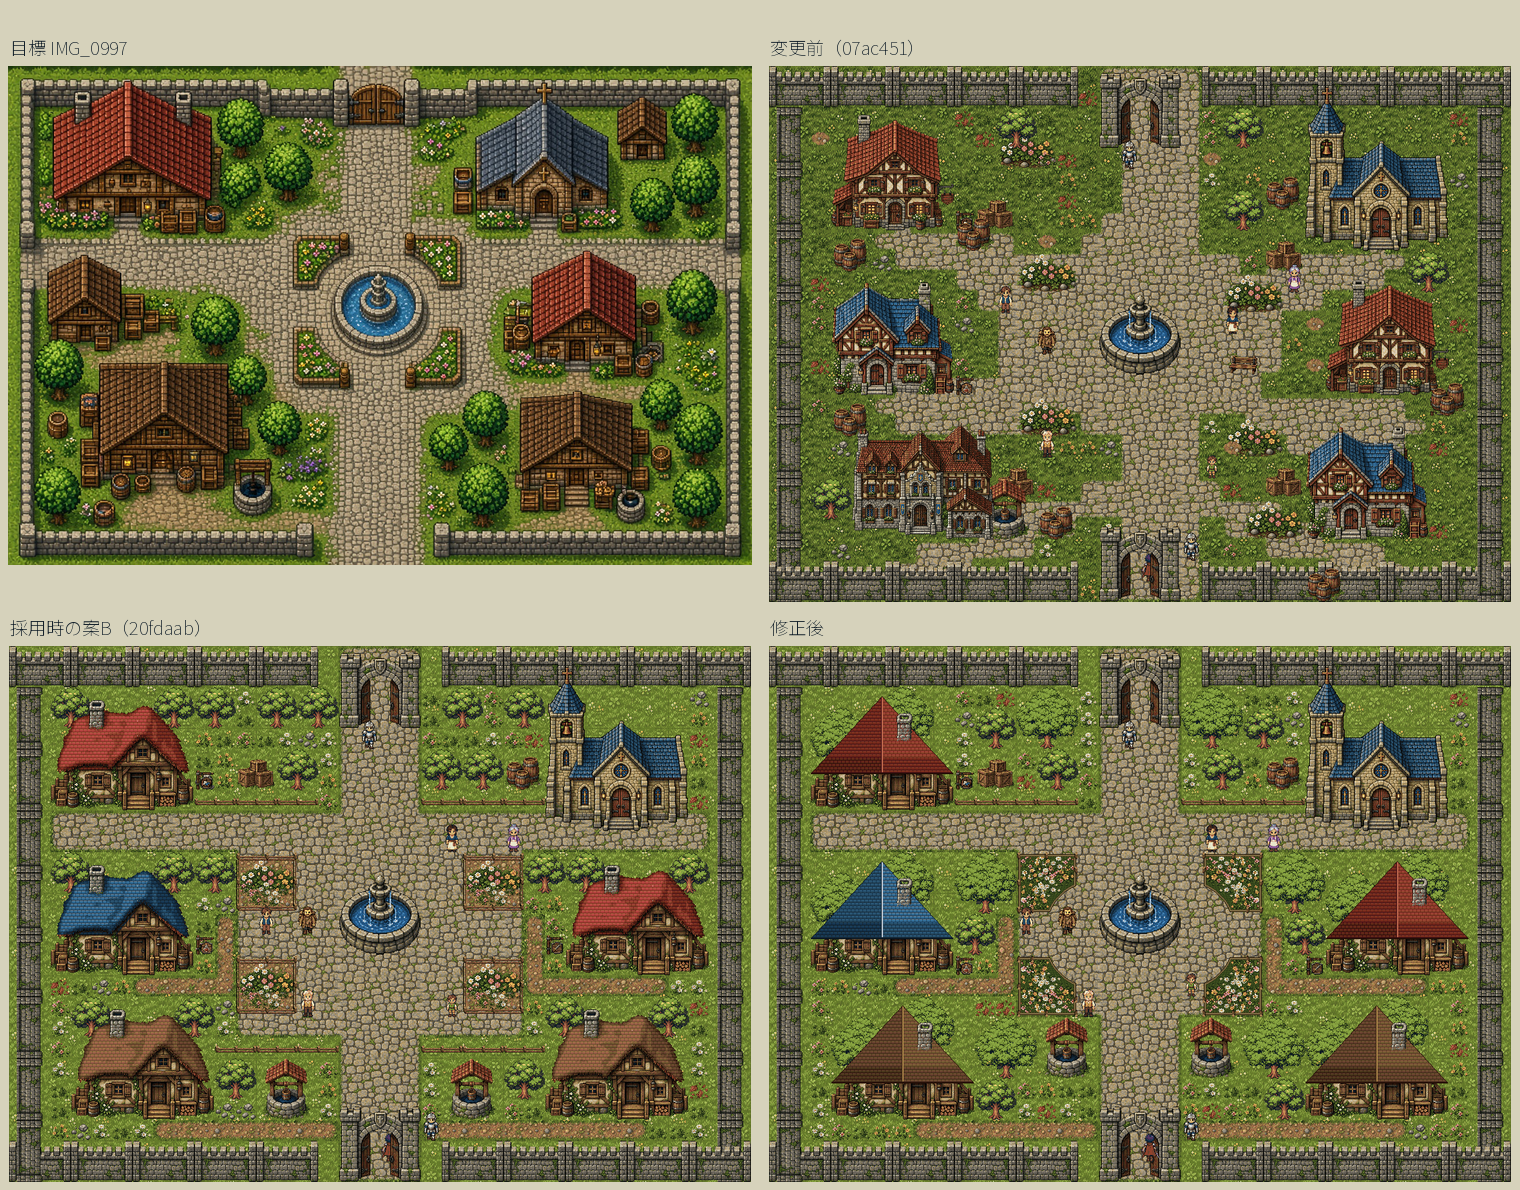
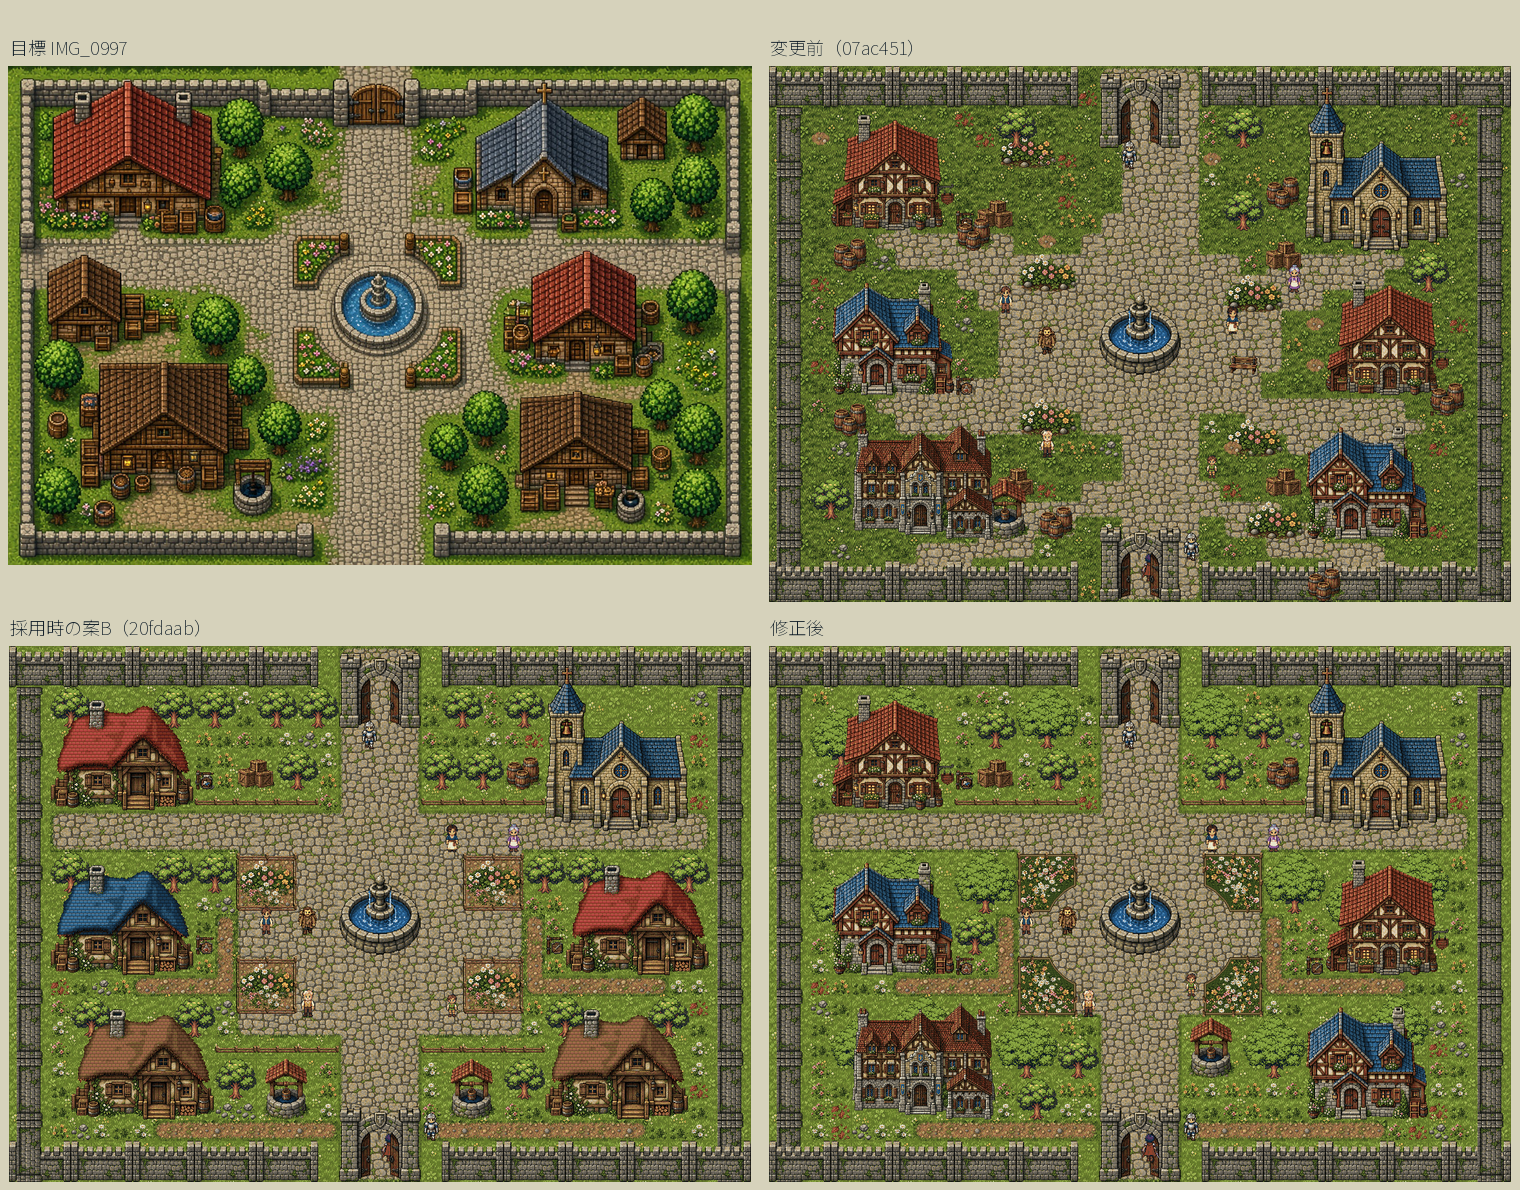
城下町の比較画像・検査・記録を町家に戻した版へ更新する
木の固まりを連結成分で求めて2〜3本であることを検査し、家は初版と同じ町家・館であることを確かめる。
目標・変更前・採用時・修正後の比較画像と、通常操作の実画面を撮り直す。

Claude-Session: https://claude.ai/code/session_014N6nJw8CEZAjPXfFKyyS9r

diff --git a/tools/check_castle_town_polish.py b/tools/check_castle_town_polish.py
@@ -1,5 +1,7 @@
 #!/usr/bin/env python3
-"""城下町の見た目の仕上げ（2026年9月28日の依頼6項目と、案B採用後の修正4点）を、本番配置データから機械検査する。
+"""城下町の見た目の仕上げ（2026年9月28日の依頼6項目と、案B採用後の修正）を、本番配置データから機械検査する。
+
+(4)の「木造の家を中心に」は、依頼者の決定により家を登録済みの町家・館の素材へ戻したため検査しない。
 
 比較の相手は、この作業の直前のコミット 07ac451（城下町・城の採用後の最終コミット）に固定する。
 修正4点の「道幅を細く」は、依頼者が見た案Bのコミット 20fdaab と比べる。
@@ -61,12 +63,21 @@ def main():
     check(near == len(trees), f'(1) 木はすべて家の周りか町の縁: {near}/{len(trees)}')
     large = named('tree_round_large')
     check(len(large) >= 6, f'修正2 大きな丸い木（3×3セル）が6本以上: {len(large)}本')
-    lonely = []
-    for tree in trees:
-        others = [o for o in trees if o is not tree]
-        if not any(abs(x - ox) <= 1 and abs(y - oy) <= 1 for x, y in cells(tree) for o in others for ox, oy in cells(o)):
-            lonely.append(min(cells(tree)))
-    check(not lonely, f'修正2 どの木も隣り合う木を持つ（2〜3本の固まり）: 孤立 {lonely}')
+    # 隣り合う（セル間の距離1以内の）木をつないだ固まりを求め、どの固まりも2本か3本であることを確かめる
+    def touching(a, b):
+        return any(abs(x - ox) <= 1 and abs(y - oy) <= 1 for x, y in cells(a) for ox, oy in cells(b))
+    groups, left = [], list(range(len(trees)))
+    while left:
+        group, queue = [], [left.pop(0)]
+        while queue:
+            i = queue.pop()
+            group.append(i)
+            for j in [j for j in left if touching(trees[i], trees[j])]:
+                left.remove(j)
+                queue.append(j)
+        groups.append(sorted(min(cells(trees[i])) for i in group))
+    wrong = [g for g in groups if len(g) not in (2, 3)]
+    check(not wrong, f'修正2 木は2〜3本ずつの固まり: 固まり{len(groups)}個、2〜3本でないもの {wrong}')
     rows = {}
     for tree in trees:
         rows.setdefault(min(y for _, y in cells(tree)), []).append(tree)
@@ -107,9 +118,14 @@ def main():
     kinds = [l['name'].removeprefix('natural_') for l in houses]
     check(all(k in roof_of for k in kinds) and len(kinds) == 6, f'(4) 6棟の屋根が赤・茶・青のどれか: {kinds}')
     check(not any('farm_house' in l['name'] for l in layers), '(4) わら屋根の家を置かない')
-    wooden = sum(k.startswith('gable_house') for k in kinds)
-    check(wooden >= 3, f'(4) 教会以外の5棟のうち過半（3棟以上）が木造の大屋根の家: {wooden}棟')
-    check(wooden == 5, f'修正1 教会以外の5棟すべてが三角の切妻屋根の木造の家: {wooden}棟')
+    # 修正1（2026年9月28日の依頼者決定）：スクリプトで描いた家は使わず、登録済みの町家・館の素材に戻す。
+    # 家の種類と位置は初版（07ac451）と同じ
+    base_town = base_visual['maps'][f'{NODE}:0']
+    def placed(document):
+        return sorted((l['name'], min(c[0] for c in l['cells']), min(c[1] for c in l['cells'])) for l in document['layers']
+                      if 'house' in l['name'] or l['name'] in ('natural_church', 'natural_manor'))
+    check(placed(town) == placed(base_town), f'修正1 家は登録済みの町家・館の素材で、種類と位置は初版と同じ: {placed(town)}')
+    check(not any(l['name'].startswith(('natural_gable_house', 'natural_wood_house')) for l in layers), '修正1 スクリプトで描いた家の素材を使わない')
 
     # (5) 家ごとの庭：各家から5セル以内に樽・木箱・井戸・花のどれかがある。井戸が1つ以上
     props = [l for l in layers if l['name'].removeprefix('natural_') in ('barrels', 'crates', 'well', 'flowers_pink', 'flowers_white', 'flowers_yellow', 'flowerbed')]
@@ -147,6 +163,7 @@ def main():
     check(door_rooms(first['castle_doors']) == door_rooms(base_def['castle_doors']), '扉と部屋の対応（どの扉がどの部屋へ）は07ac451と同じ')
     check(outside_town(first['castle_doors']) == outside_town(base_def['castle_doors']), '城内・店の中の出入口セルは07ac451と同じ')
     check(town_side(first['castle_doors']) == town_side(base_def['castle_doors']), '北門から城の中庭への出入口セルは07ac451と同じ')
+    check(first['castle_doors'] == base_def['castle_doors'], '城下町の扉セルも含め、出入口はすべて07ac451と同じ')
     moved = sorted({tuple(l['from']['cell']) for l in first['castle_doors'] if l['from']['room'] == 0} - {tuple(l['from']['cell']) for l in base_def['castle_doors'] if l['from']['room'] == 0})
     print(f'INFO 家の絵に合わせて移した城下町側の扉セル: {moved}')
     for key in ('castle_entrance', 'castle_exit', 'castle_spawn'):

diff --git a/tools/build_castle_town_polish_review.py b/tools/build_castle_town_polish_review.py
@@ -16,7 +16,7 @@ BEFORE = OUT / 'before-full-town.png'
 FONT = ImageFont.truetype(str(ROOT / 'assets/fonts/notosansjp/NotoSansJP.ttf'), 22)
 SMALL = ImageFont.truetype(str(ROOT / 'assets/fonts/notosansjp/NotoSansJP.ttf'), 18)
 TITLES = {
-    'B': '案B（採用）を修正：切妻屋根・大きな木の固まり・細い道・花で埋めたL字花壇',
+    'B': '案B（採用）を修正：町家・大きな木の固まり・細い道・花で埋めたL字花壇',
 }
 ADOPTED = OUT / 'variant-B/adopted-full-town.png'  # 依頼者が採用した時点（20fdaab）の本番描画
 BG = '#d6d2bb'

diff --git a/docs/castle-town-polish.md b/docs/castle-town-polish.md
@@ -10,17 +10,18 @@
    - 木：小さな木が一列に並んで生け垣のよう → 大きな丸い木を2〜3本ずつ固め、家の周りと町の縁を囲む
    - 道幅：十字の道が太く町が石畳で埋まる → 目標の絵と同じくらいに細くし、空いた分を庭と木に使う
    - 花壇：土の四角に見える → 柵で囲み、中に花がびっしり咲く形
+3. 同日、依頼者が木・道幅・L字の花壇・南門・仕様書の書き分けを採用した（87b7e17）。スクリプトで描いた三角の屋根は、テントやピラミッドのように見えた。目標の屋根（斜め上から見下ろした台形の面と棟の線、正面の壁の上の小さな三角）をスクリプトで描くのは難しいと依頼者が判断したため、**家は案Aと同じ登録済みの町家・館の素材に戻した**。切妻屋根の家の素材は台帳とファイルから外した（87b7e17 に残る）。
 
 ## 修正後の内容
 
-- **屋根**：教会以外の5棟を、三角の切妻屋根の木造の家 `natural_gable_house_{red,blue,brown}` にした（赤2・青1・茶2）。棟が縦に通り、左右の面で明暗を分け、5画素ごとの段と継ぎ目で瓦・板葺きを描く。壁・扉・窓・樽・薪はわら屋根の家Aの絵をそのまま使う。
-- **木**：96×96（3×3セル）の大きな丸い木 `natural_tree_round_large` を16本、従来の丸い木を8本、計24本。すべての木が隣り合う木を持つ2〜3本の固まりで、同じ行に並ぶ木は4本まで。家の後ろの木は屋根の上の空いた角に重ね、屋根より奥に描く。
+- **家**：登録済みの町家（赤2・青2）・館・教会。種類と位置は初版（07ac451）と同じで、扉のセルと出入口のつながりも初版と完全に一致する。屋根は赤・青と、館の赤茶。
+- **木**：96×96（3×3セル）の大きな丸い木 `natural_tree_round_large` を16本、従来の丸い木を7本、計23本。隣り合う木をつないだ固まりは9個で、どれも2本か3本。同じ行に並ぶ木は4本まで。家の後ろの木は屋根の上の空いた角に重ね、屋根より奥に描く。
 - **道幅**：南北の道は門と同じ4マス、東西の道は2マスのまま、噴水の広場を 14×11 から 12×8 セルへ縮めた。石畳のセル数は採用時の250から224へ減り、空いた場所に木と庭を置いた。
 - **花壇**：噴水側の角を円弧で欠いたL字の花壇 `natural_fenced_flowerbed_{nw,ne,sw,se}` を噴水の斜め四方に置いた。木の縁と杭で囲み、中を葉と花で埋めて土を見せない。欠けた角は噴水を向く。
 - **南門**：`scripts/world/first_region_view.gd` で、城下町の門（`gate_open`）を地面と同じく人物より奥に描く。門を使うのはこの城下町だけ。入場直後の位置（18,24）で主人公の不透明画素 707/707 が画面に見えることを通常操作の撮影で確かめた（採用前は同じ位置で不合格だった）。
 - **仕様書**：`docs/experience-spec-v2.md` の「町・村・城」に「村の道はゆるく曲げ」「城下町は門から広場（噴水）へまっすぐな十字の道」と書き分けた。
 
-家の扉の列は変わらない。採用時と同じく、武器屋 (30,15)→(31,15)、民家 (29,22)→(30,22) の2か所だけ初版から扉セルが動く（部屋との対応は同じ）。住人は立ち位置だけ動かした（祠へ来た人は、教会前の1マス幅の通り道をふさがない (24,9)）。
+住人は立ち位置だけ動かした（祠へ来た人は、教会前の1マス幅の通り道をふさがない (24,9)）。
 
 ## 素材（画像生成なし）
 
@@ -28,17 +29,16 @@
 
 | 素材 | 大きさ | 作り方 |
 | --- | --- | --- |
-| `natural_gable_house_{red,blue,brown}` | 224×192 | わら屋根の家Aの軒より下（壁・扉・小物）を残し、三角の切妻屋根と石の煙突を描く |
 | `natural_tree_round_large` | 96×96 | 丸い木の葉の部分を5つ重ね、幹を足す |
 | `natural_fenced_flowerbed_{nw,ne,sw,se}` | 96×96 | 葉の下地に花壇・花の小物を重ね、木の縁と杭で囲む。北西の絵を反転して4方向 |
 | `natural_fence_low_horizontal` | 64×32 | 柵の角材から組んだ細い横の柵 |
 | `natural_grass_meadow` | 128×128 | 草地2の暗い粒を中間の緑へ寄せ、目標画像の草地の明るさへ合わせる |
 
-採用前に使った `natural_wood_house_*`・`natural_fenced_flowerbed`・`natural_grass_meadow_light` は使わなくなったため、台帳とファイルから外した（20fdaab に残る）。
+採用前に使った `natural_wood_house_*`・`natural_fenced_flowerbed`・`natural_grass_meadow_light`（20fdaab に残る）と、切妻屋根の家 `natural_gable_house_*`（87b7e17 に残る）は使わなくなったため、台帳とファイルから外した。
 
 ## 確認画像（`docs/verification/castle-town-polish/`）
 
-- `overview.png`：目標・変更前（07ac451）・採用時の案B（20fdaab）・修正後の一覧。
+- `overview.png`：目標・変更前（07ac451）・採用時の案B（20fdaab）・修正後の一覧。切妻屋根の家の版の画面は 87b7e17 の `variant-B/full-town.png`。
 - `variant-B/comparison.png`：目標と修正後の城下町全体。
 - `variant-B/adopted-vs-revised.png`：採用時と修正後。
 - `variant-B/full-town.png`：本番の描画クラス `FirstRegionView` で城下町全体（36×26セル）を1枚に描いた画面（`tools/capture_castle_town_full.gd`）。`adopted-full-town.png` は採用時の同じ画面。
@@ -64,13 +64,14 @@ godot --path . --rendering-method gl_compatibility --script res://tools/capture_
 `tools/check_castle_town_polish.py` は、比較の相手を作業直前のコミット 07ac451（道幅は採用時の 20fdaab）に固定し、次を確かめる。
 
 - 6項目：木の数と位置、十字の石畳、花壇4つ、屋根の色と木造の家の数、庭の小物、明るい草地と花
-- 修正4点：5棟すべてが切妻屋根の家／大きな木6本以上・すべての木が固まりに属する・同じ行の木は4本まで／石畳のセル数が採用時より少なく東西の道は2マス幅／花壇の欠けた角が噴水を向く
-- 変えていないこと：城下町以外の地図・部屋、扉と部屋の対応、城内・店の出入口、住人の役・絵・台詞、町の名前
+- 修正：家は登録済みの町家・館で種類と位置が初版と同じ・スクリプトで描いた家を使わない／大きな木6本以上・隣り合う木の固まりがどれも2本か3本・同じ行の木は4本まで／石畳のセル数が採用時より少なく東西の道は2マス幅／花壇の欠けた角が噴水を向く
+- 変えていないこと：城下町以外の地図・部屋、扉と部屋の対応と扉のセル、城内・店の出入口、住人の役・絵・台詞、町の名前
+
+(4)の「大きな屋根の木造の家を中心に」は、依頼者の決定で家を町家に戻したため検査しない。
 
 `tools/capture_castle_town.gd` は、環境変数 `CASTLE_CAPTURE_OUTPUT` を指定したときだけ保存先を変え、城下町の撮影位置を4か所追加する（入場位置の撮影では主人公の画素が90%以上見えることも判定する）。保護済みのR-07の経路・14項目・上限は変更していない。
 
 ## 目標画像との残る違い
 
 - 目標画像には南門がなく、南の石垣の切れ目から道が出ている。今回は初版の構造（南北2つの門）を保った。
-- 目標の家は屋根の下の壁が高く、横にも広い。今回の家は軒下の壁が低い（わら屋根の家Aの壁の高さ）。
-- 家の後ろの木は屋根に大きく隠れ、目標画像ほど家の左右に木の塊が見えない。
+- 目標の家は木造の大屋根（台形の屋根の面と棟の線）。今回は依頼者の決定で、半木骨造の町家・館の素材のまま。木造の大屋根の家は、新しい原画が用意できたときの課題として残る。

diff --git a/docs/roadmap-v2.md b/docs/roadmap-v2.md
@@ -225,3 +225,5 @@ markdown
 2026年9月28日、依頼者の指示で城下町の見た目を目標画像 IMG_0997 へ近づける6点（木・十字の石畳・柵つき花壇・木造の家と屋根の色・庭・明るい草地）を、3案で作った。構造（壁・門・広場・噴水・教会・6棟の位置）、扉と部屋の対応、住人の台詞は保った。有効な配置はおすすめの案B。案Aは登録済み素材だけ、案B・Cは画像生成を使わない派生素材7点を使う。比較画像・検査・残る違いは docs/castle-town-polish.md。依頼者が1案を選ぶまで main へ取り込まず、森の塔・港町にはまだ進まない。
 
 同日、依頼者は案Bを採用し、屋根を三角の切妻に、木を大きな丸い木の2〜3本の固まりに、十字の道と広場を細く、花壇を花で埋めた柵つきの形に直すよう指示した。南門で主人公が門の絵に隠れる点は門を人物より奥に描いて直し、仕様書に「城下町は十字の道、村はゆるく曲がる道」を書き分けた。修正後の確認画像を報告し、main へ取り込める状態にする。
+
+続いて依頼者は、木の固まり方・道幅・L字の花壇・南門・仕様書の書き分けを採用した。スクリプトで描いた三角の屋根はテントのように見えたため使わず、家は登録済みの町家・館の素材（初版と同じ種類・位置・扉）に戻した。依頼者の確認後に main へ取り込む。

diff --git a/PLAYTEST_QUEUE.md b/PLAYTEST_QUEUE.md
@@ -94,4 +94,5 @@
 ## スプリント5：城下町の見た目の仕上げ
 
 - 2026年9月28日、依頼者が案Bを採用し、屋根・木・道幅・花壇の4点の修正と、南門で主人公が隠れる点の修正を指示した。
-- 修正後の `docs/verification/castle-town-polish/overview.png`・`variant-B/comparison.png`・`variant-B/runtime-sheet.png` を目標画像 IMG_0997 と見比べ、切妻屋根の形、木の固まり方、道幅、花壇の見え方を確認する。
+- 依頼者は木の固まり方・道幅・L字の花壇・南門・仕様書の書き分けを採用し、家は町家の素材に戻すと決めた。修正後の `docs/verification/castle-town-polish/overview.png`・`variant-B/comparison.png`・`variant-B/runtime-sheet.png` を確認して main へ取り込む。
+- 木造の大屋根の家（目標画像の台形の屋根の面と棟の線）は、新しい原画が用意できたときに改めて扱う。
